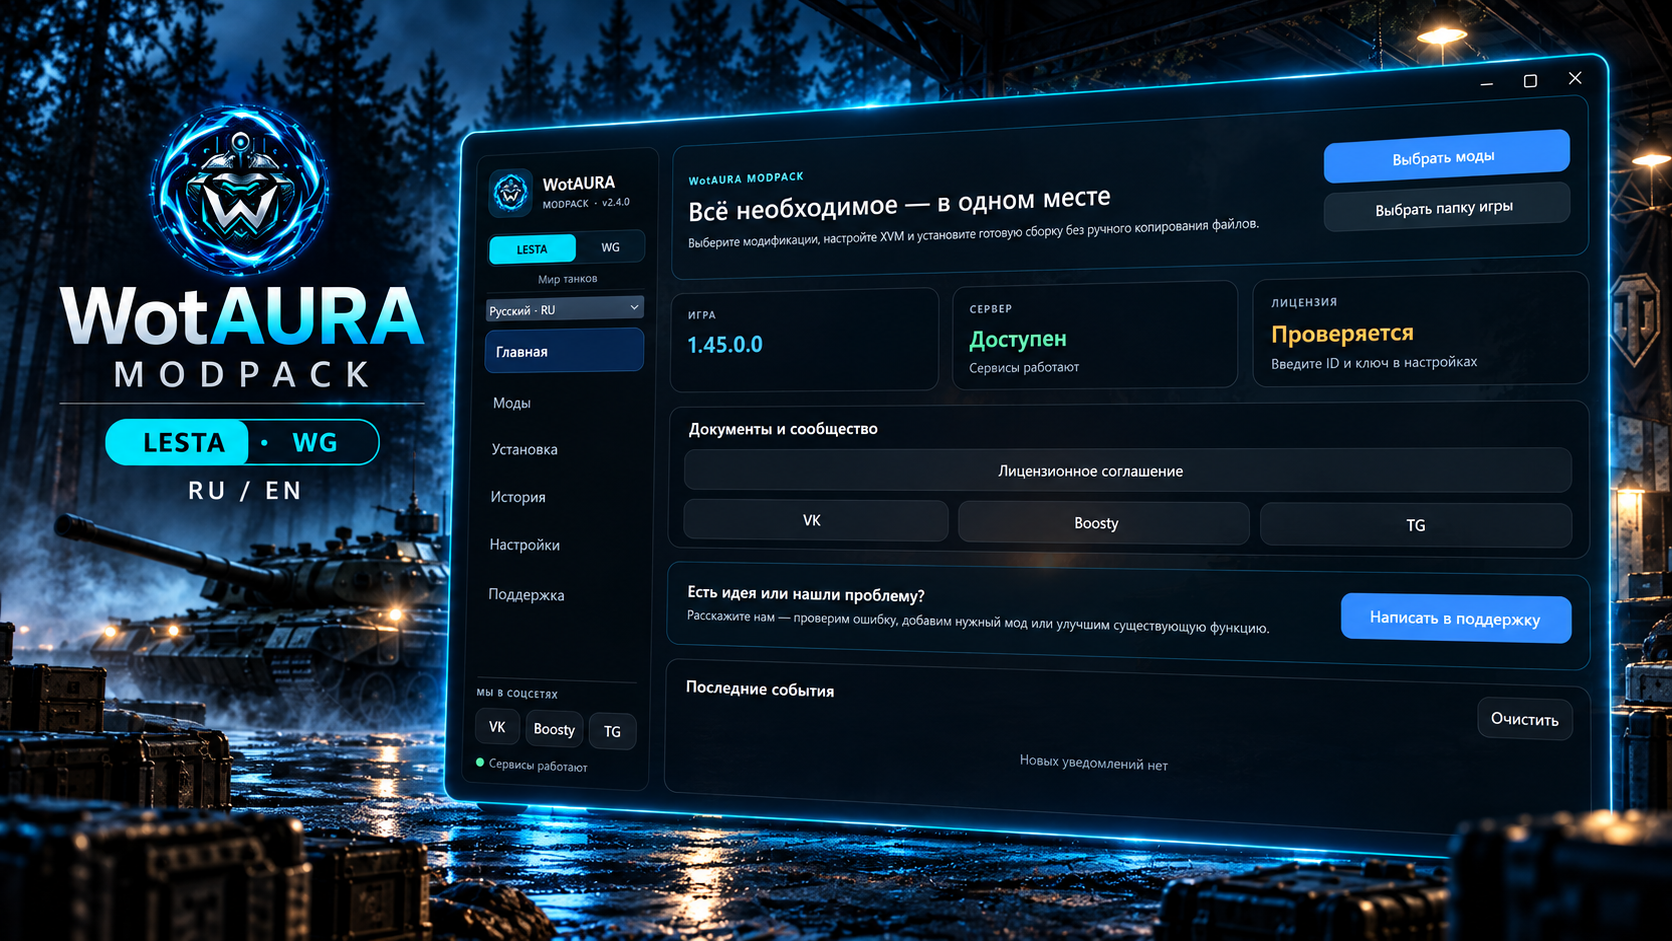
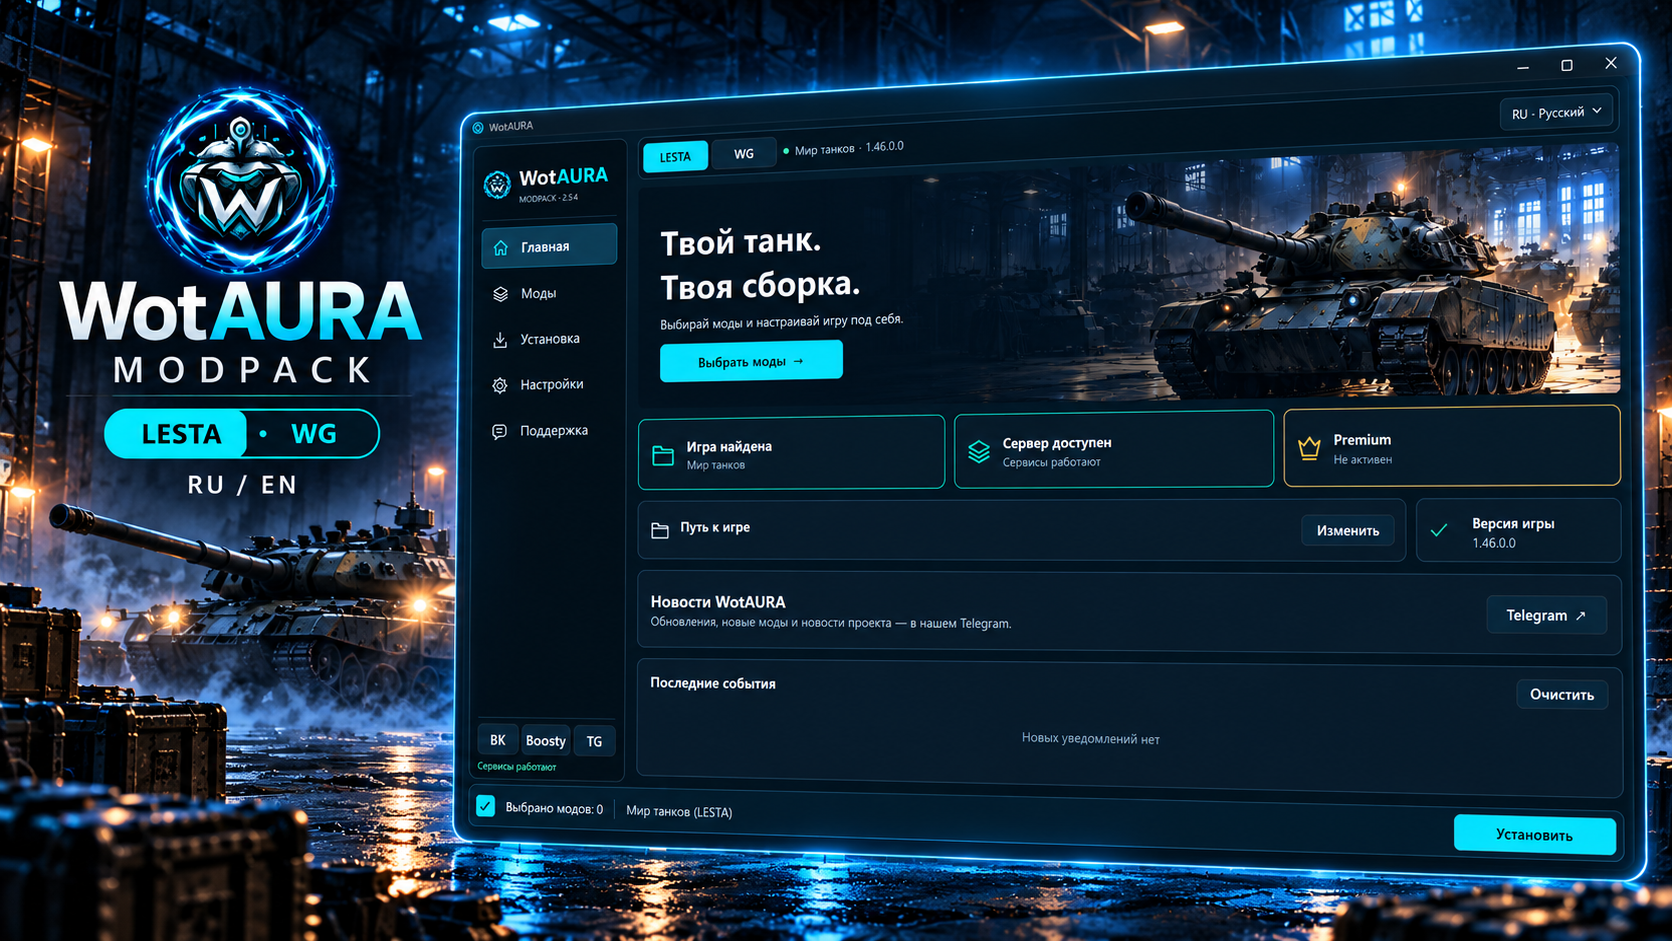
Release WotAURA 2.5.4: installation stability and clear error notices

diff --git a/README.md b/README.md
@@ -6,7 +6,7 @@
 
 ## Скачать
 
-**[Скачать WotAURA 2.5.3](https://github.com/lyprot99/WotAURA-ModPack/releases/latest)** · [Что нового — RU](news/2.5.3.ru.md) · [Release news — EN](news/2.5.3.en.md)
+**[Скачать WotAURA 2.5.4](https://github.com/lyprot99/WotAURA-ModPack/releases/latest)** · [Что нового — RU](news/2.5.4.ru.md) · [Release news — EN](news/2.5.4.en.md)
 
 Программа распространяется одним файлом — `WotAURA.exe`.
 
@@ -57,4 +57,4 @@ Before subscribing on [Boosty](https://boosty.to/wotauramodpack), review the pla
 
 Installation failures automatically send a bounded technical report: installation stage, selected mods, error details and recovery outcome. License keys and access credentials are excluded. An error report does not count as a successful installation.
 
-Текущая версия: **2.5.3**.
+Текущая версия: **2.5.4**.

diff --git a/news/2.5.4.ru.md b/news/2.5.4.ru.md
@@ -1,0 +1,1 @@
+Обновлён интерфейс модпака. Улучшено определение LESTA/WG и сохранение выбора модов. Добавлена раздельная очистка настроек с резервной копией. Исправлены ошибки установки звуков WG и зависимостей.

diff --git a/news/2.5.4.en.md b/news/2.5.4.en.md
@@ -1,0 +1,1 @@
+Redesigned the modpack interface. Improved LESTA/WG detection and saved mod selections. Added separate settings reset options with backups. Fixed WG audio installation and dependency issues.
